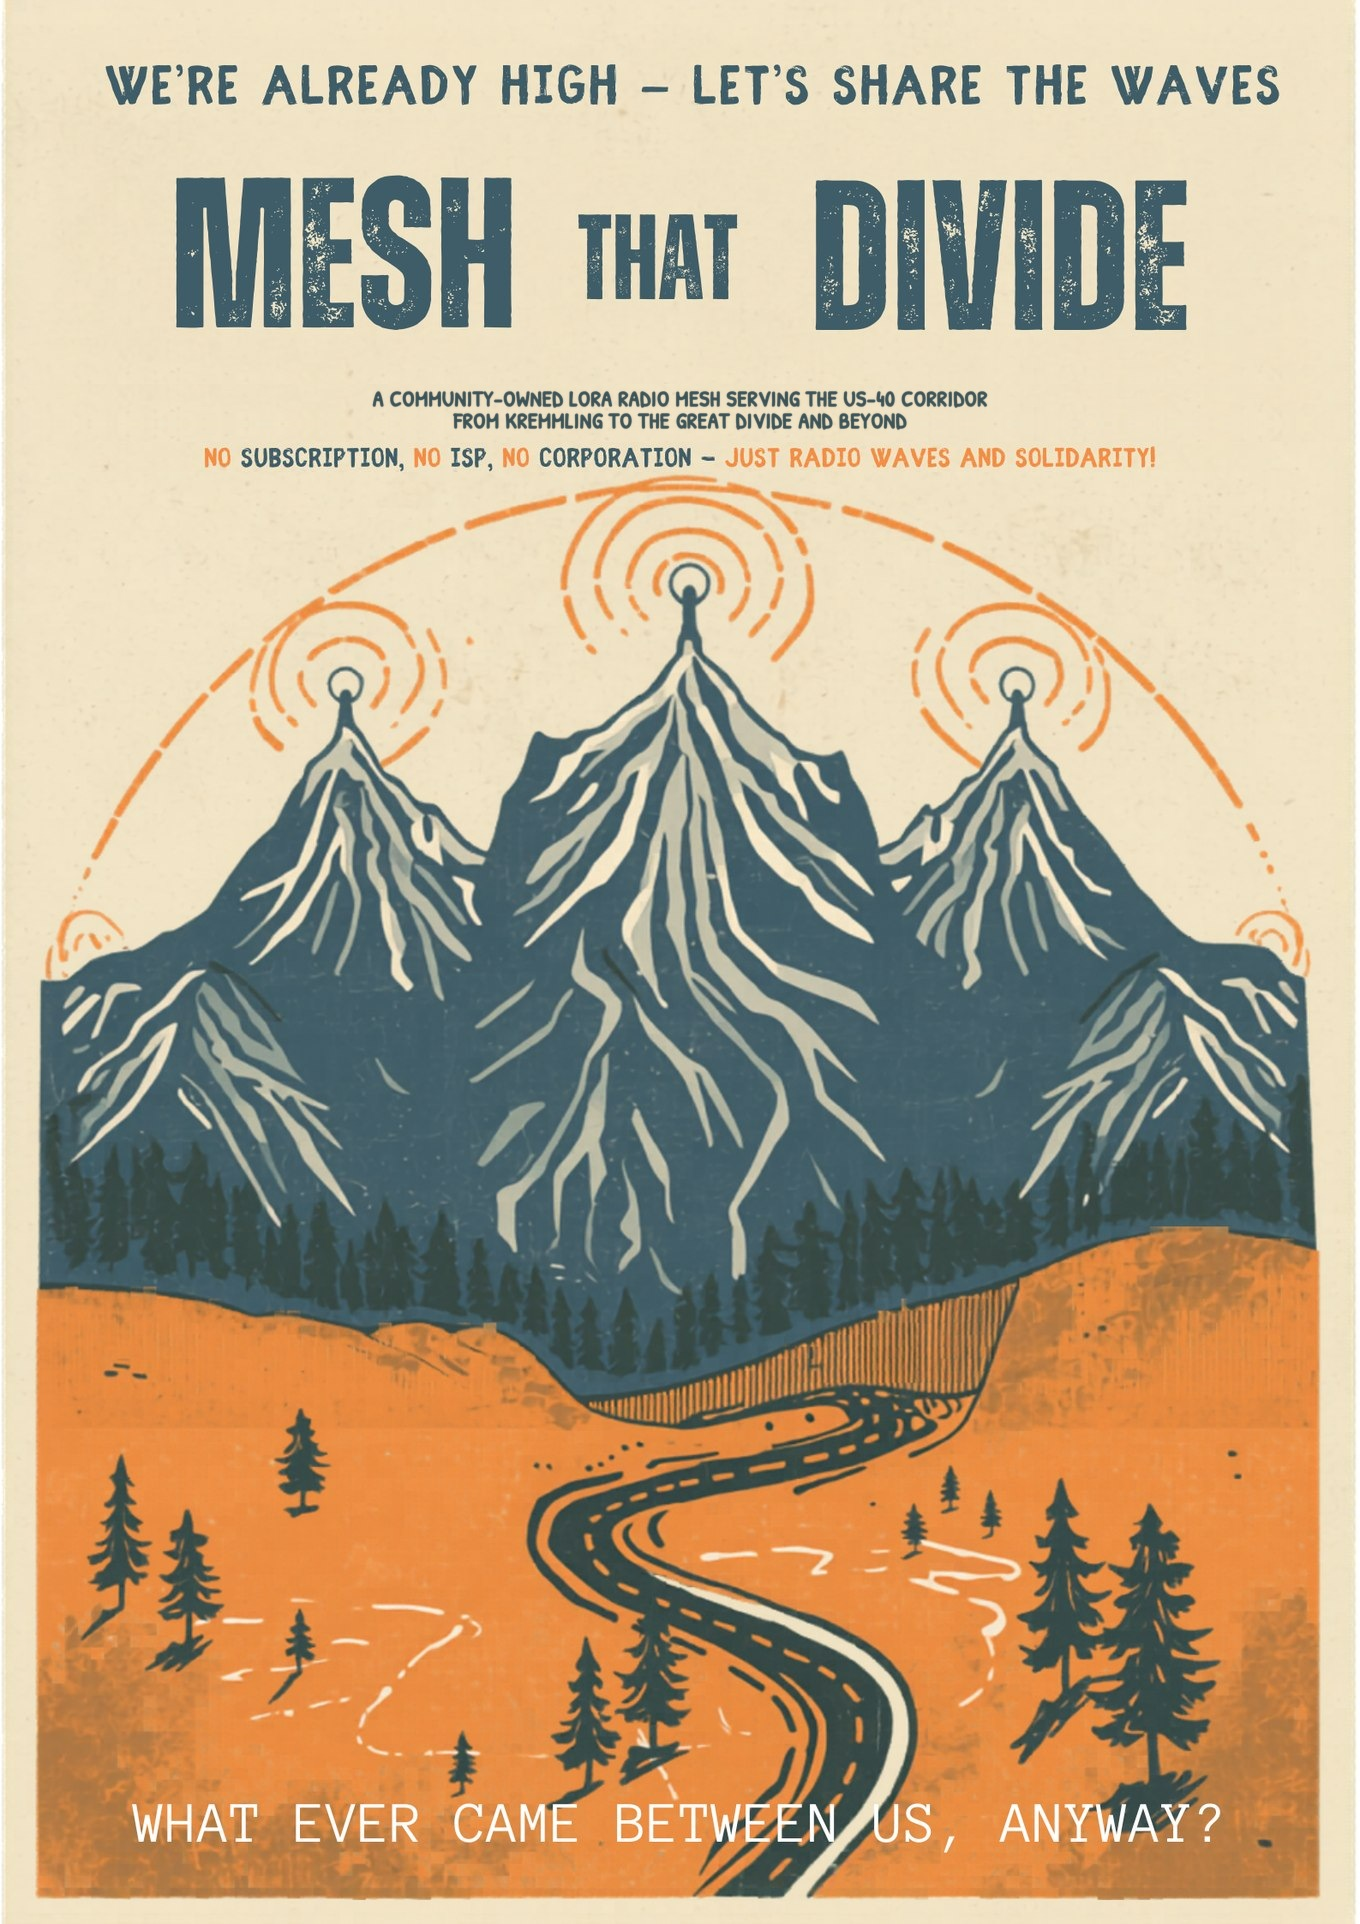
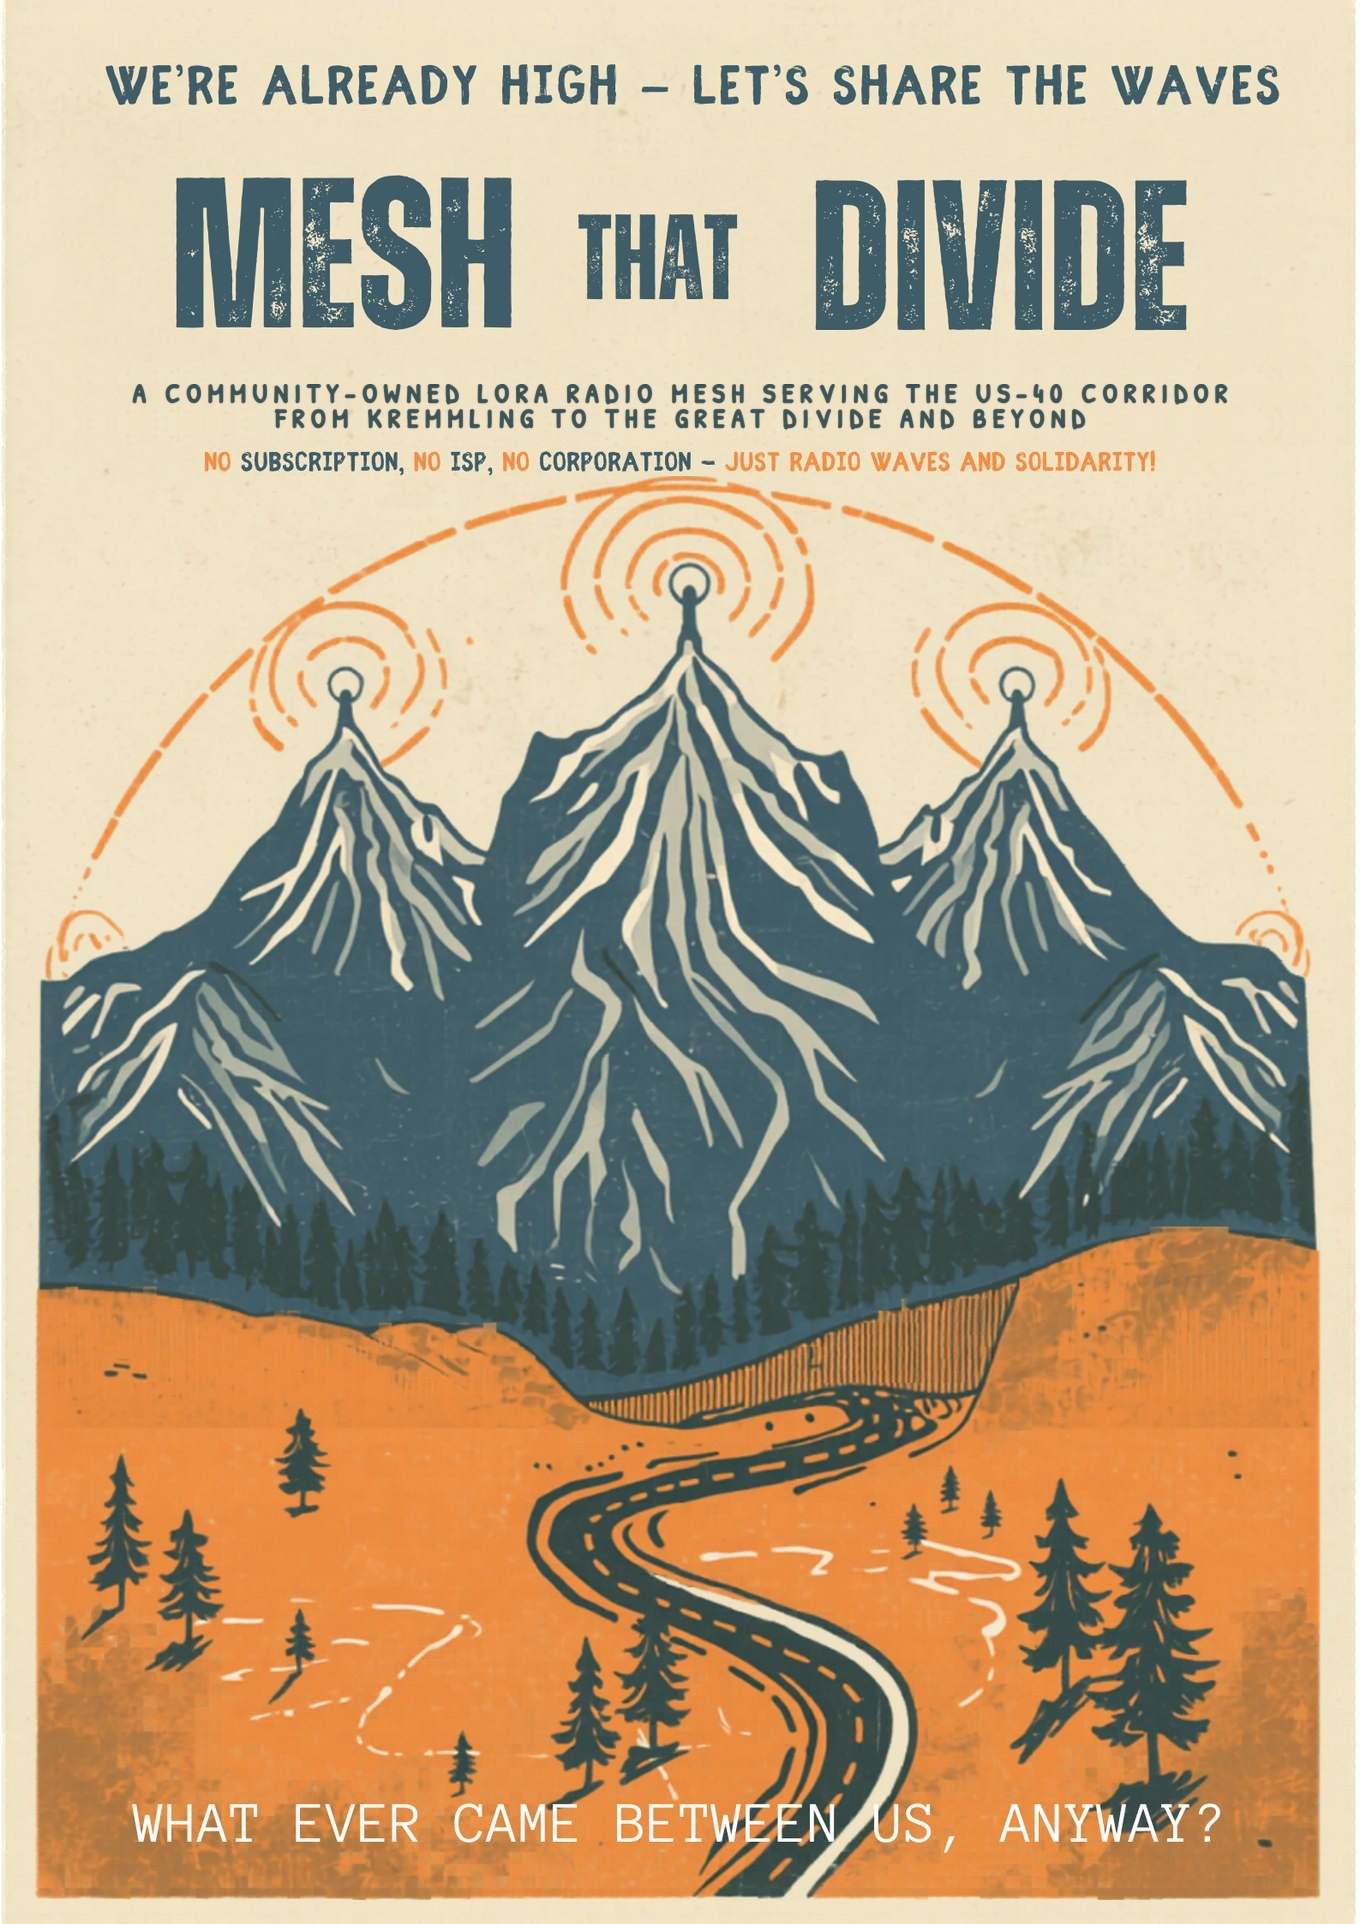
Resize poster subtitle to span margins; add sensor line to radios page
Claude-Session: https://claude.ai/code/session_01EpryEnBb74U4zb28LbNfNy

Changed region(s): [[0.1235, 0.1871, 0.8956, 0.2495]]

diff --git a/radios/index.html b/radios/index.html
@@ -27,7 +27,7 @@
 <h3>What they're good for</h3>
 <ul>
   <li><strong>Texting with no cell service.</strong> A companion radio pairs with your phone and carries short text messages over the mesh.</li>
-  <li><strong>The back pasture and the backcountry.</strong> Places where the signal stops at the valley floor are where it earns its keep, once a repeater covers them.</li>
+  <li><strong>The back pasture and the backcountry.</strong> Texting where the signal stops, and, as the network grows, simple sensor reports like a stock-tank level.</li>
   <li><strong>A backup line.</strong> When the highway closes or a creek floods, the mesh doesn't depend on cell towers, fiber or the power grid.</li>
   <li><strong>No subscription.</strong> No monthly fee. You buy the radio once.</li>
 </ul>
